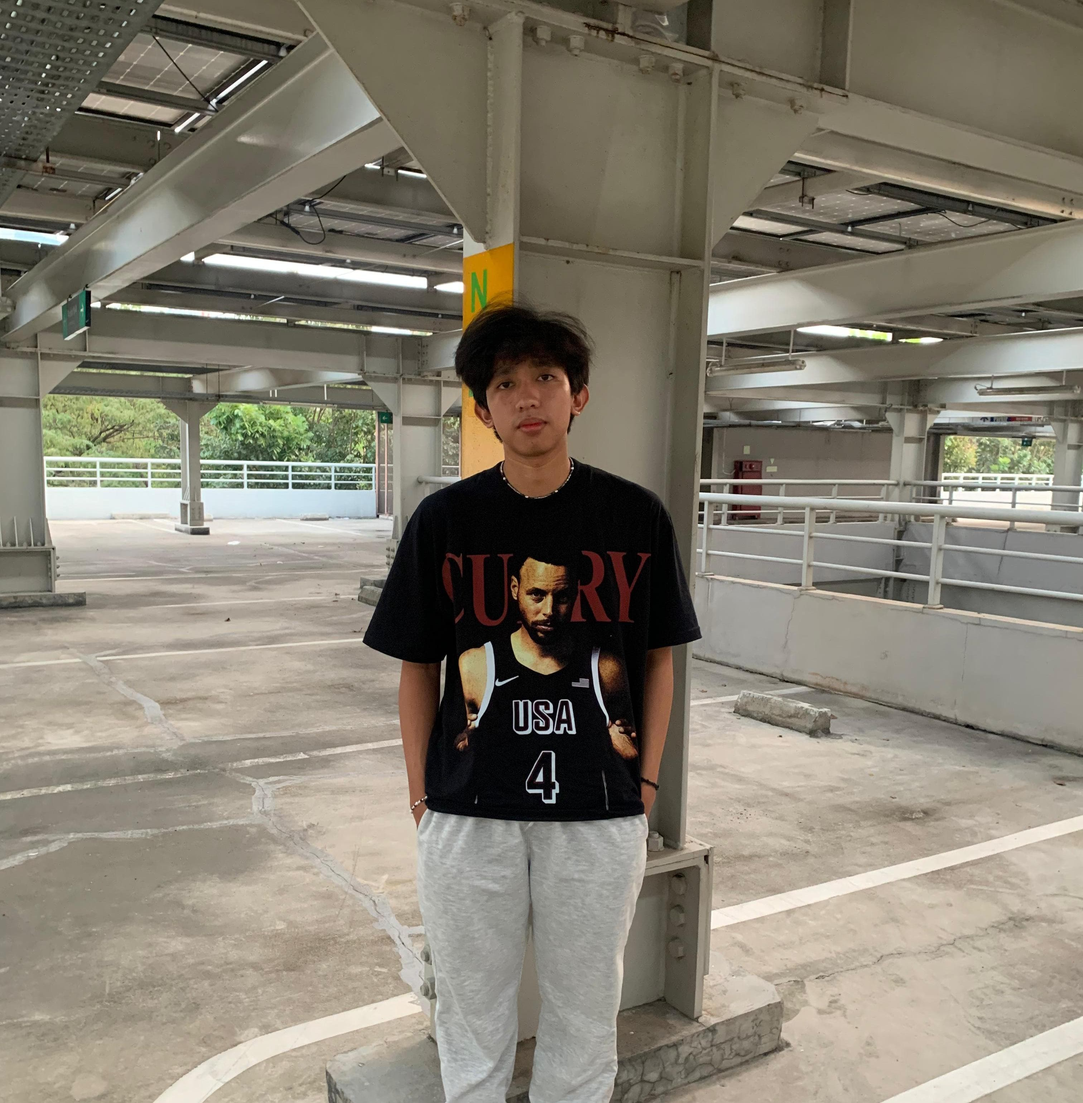
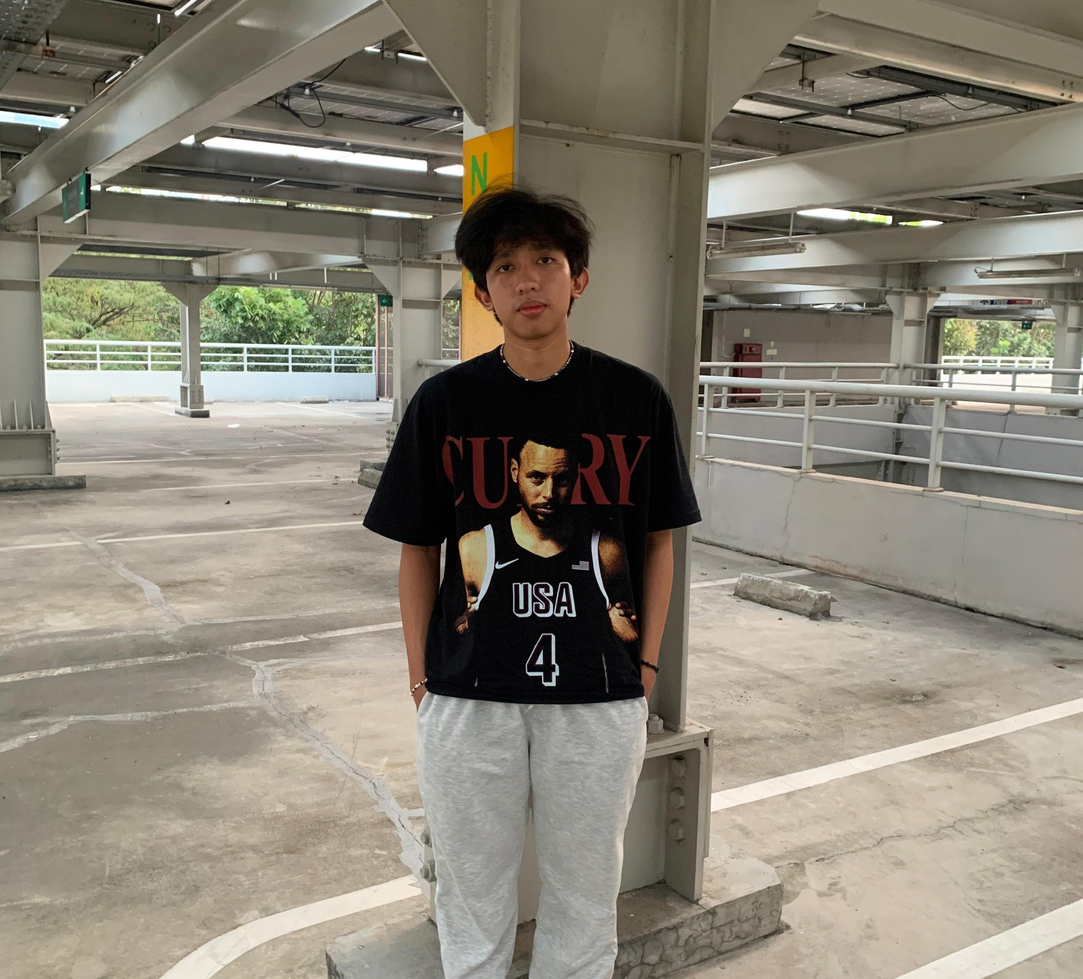
Deploy website

diff --git a/artikel1.html b/artikel1.html
@@ -15,7 +15,7 @@
         <p class="subheading">MDFKA</p>
 
         <!-- Gambar Artikel -->
-        <img src="outfit1artikel.JPG" alt="Fashion Style Image" class="article-image">
+        <img src="outfit1.JPG" alt="Fashion Style Image" class="article-image">
 
         <!-- Konten Paragraf -->
         <div class="content">
